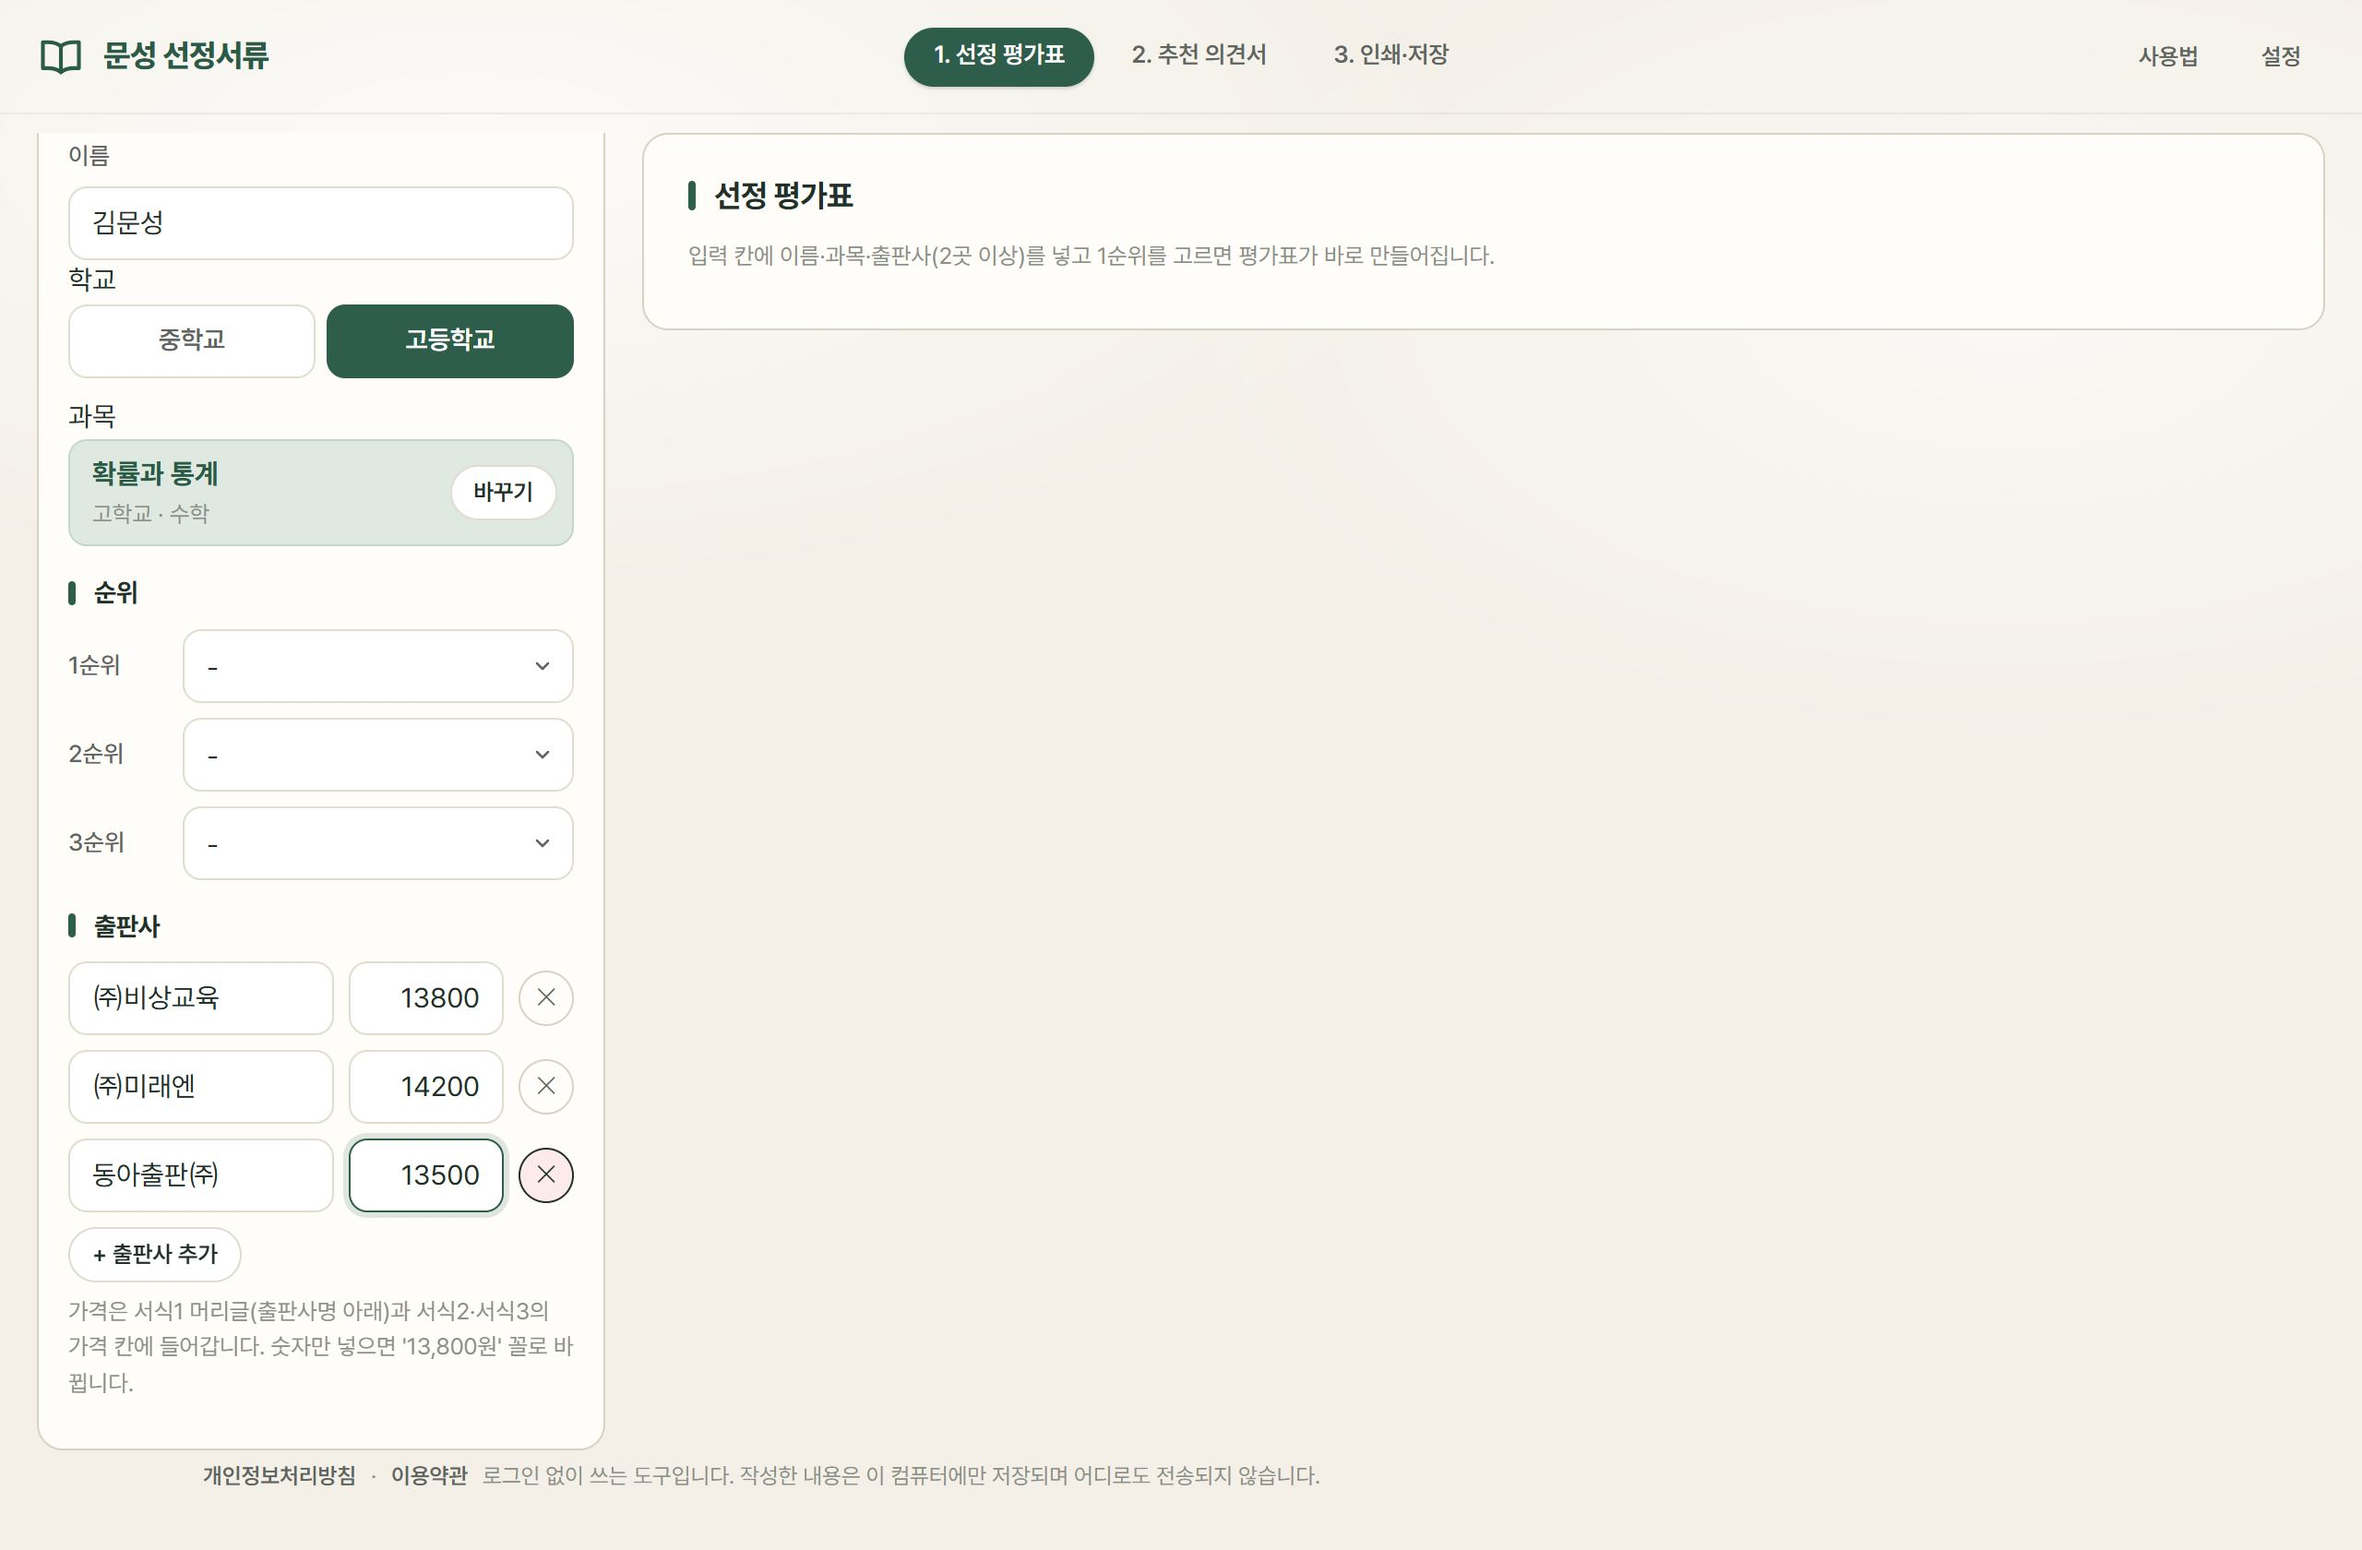
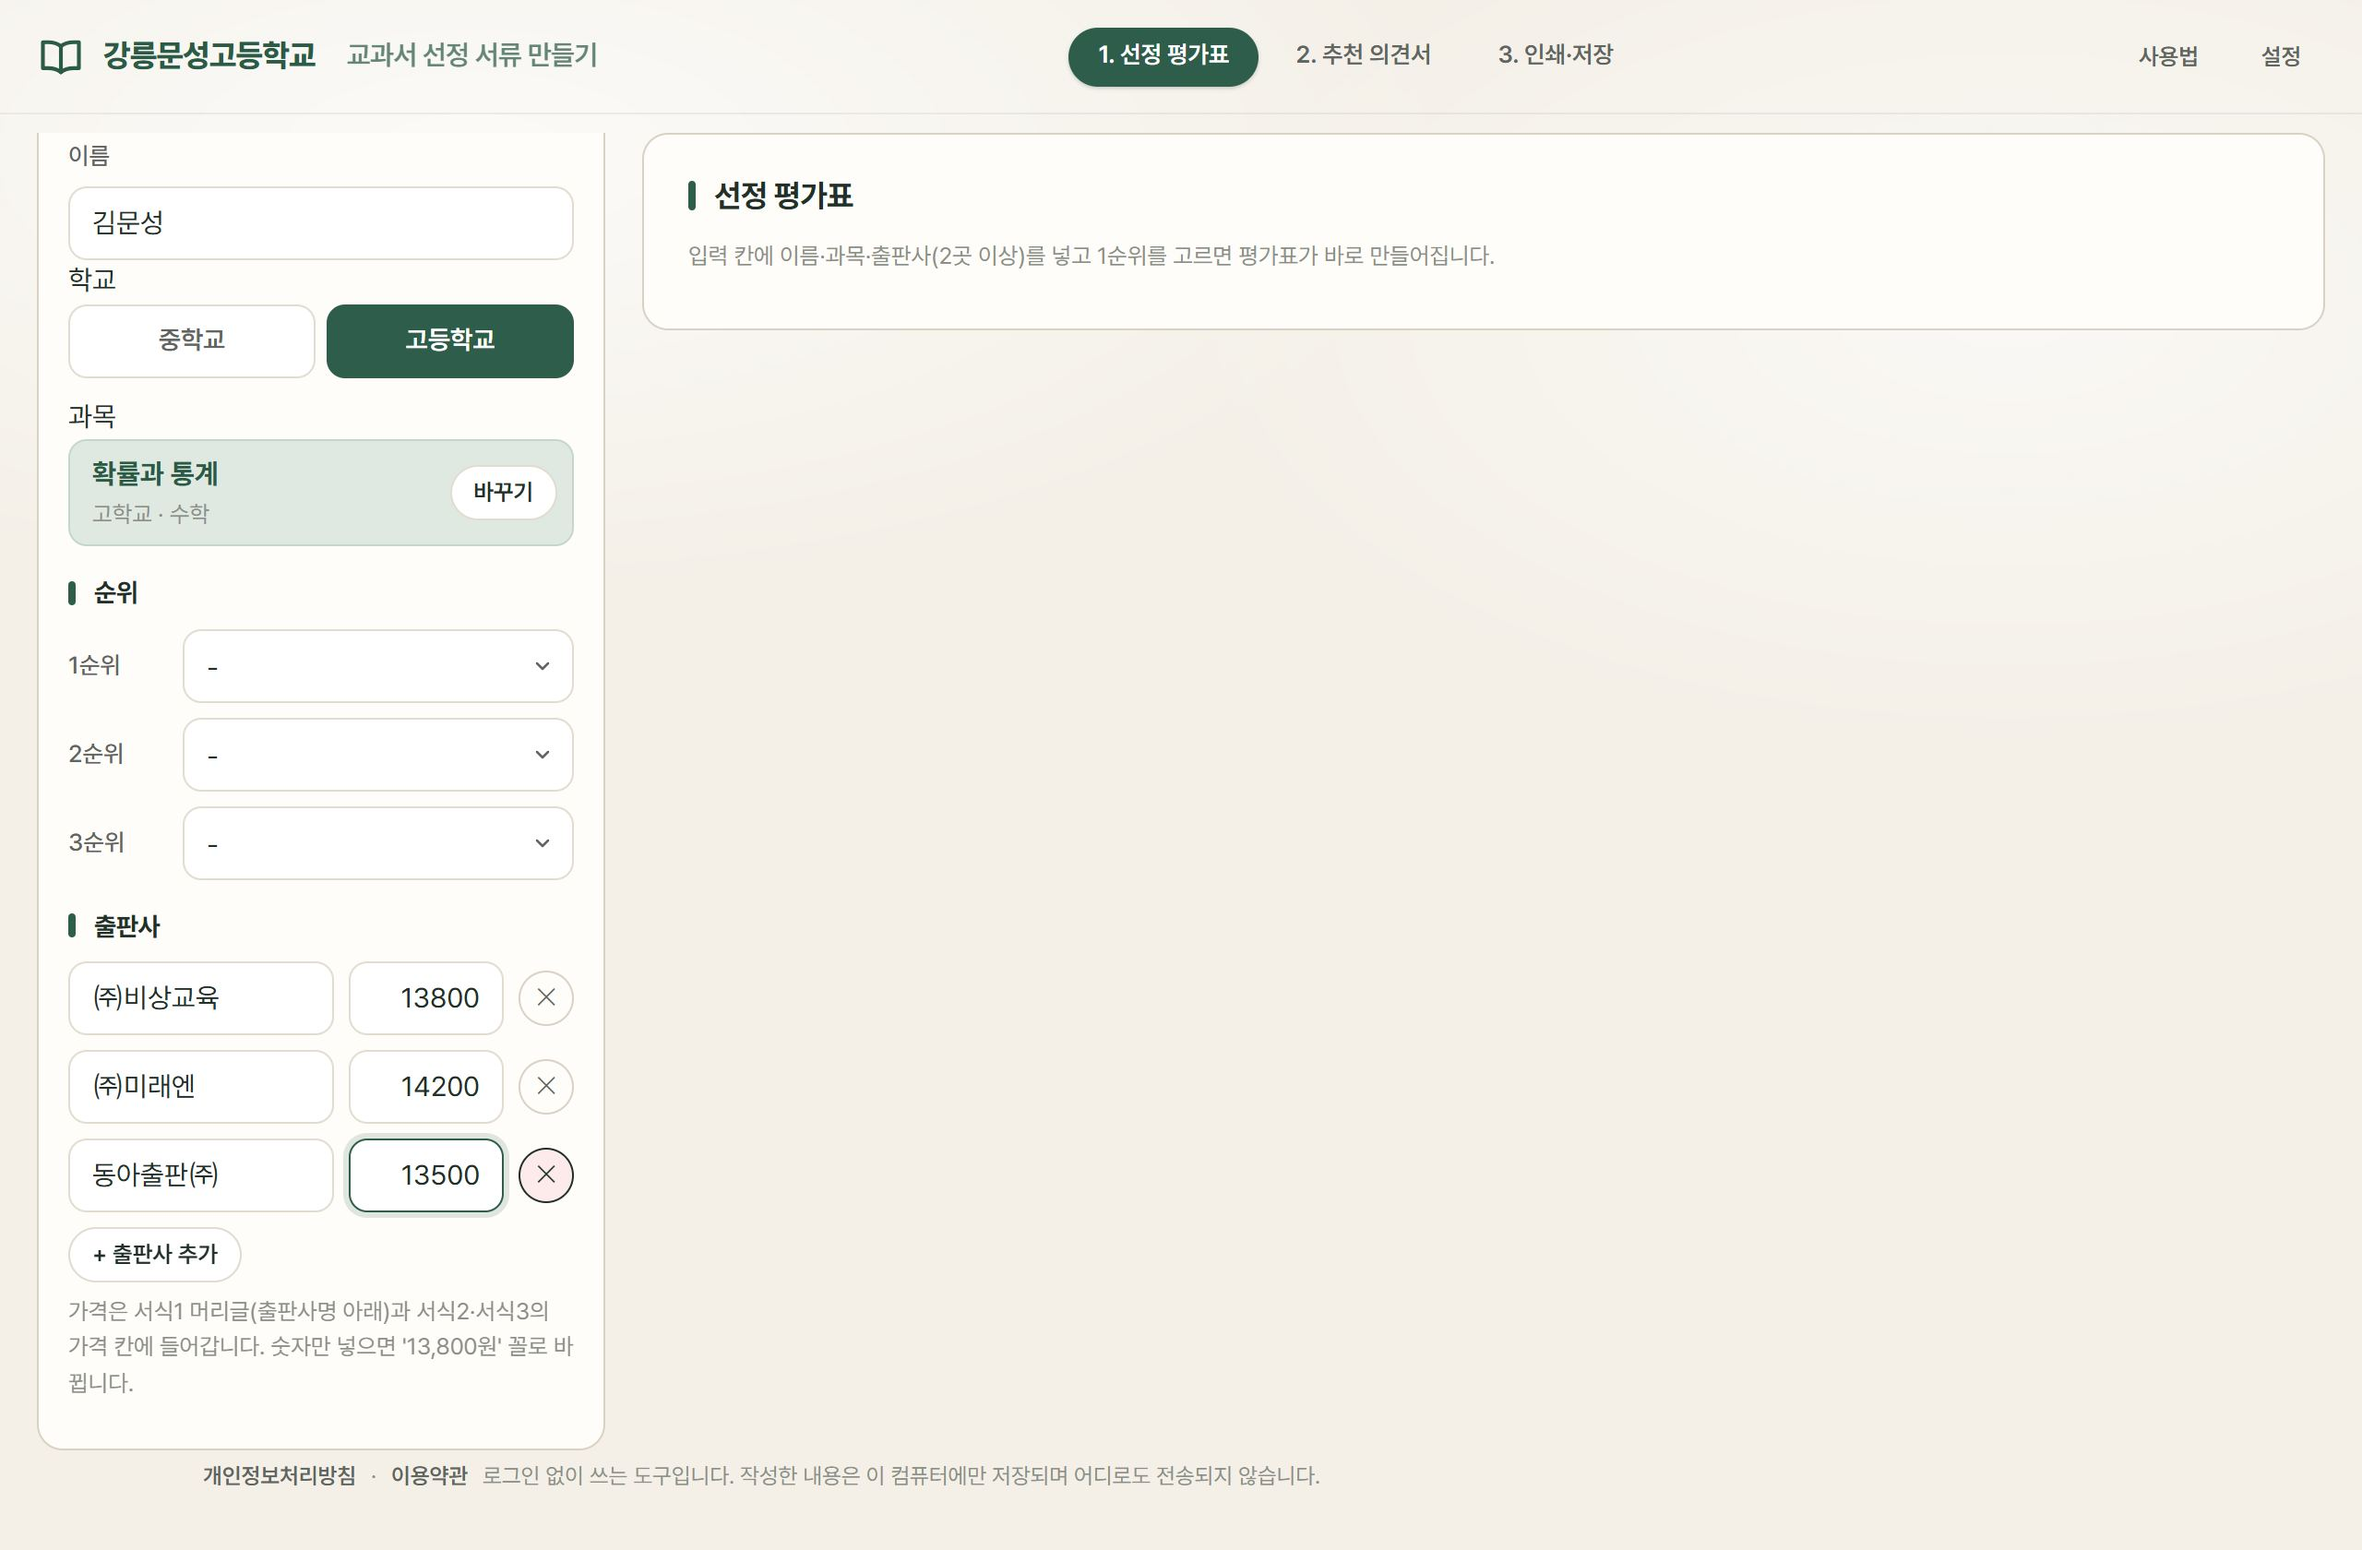
상단 이름을 '강릉문성고등학교 교과서 선정 서류 만들기' 로
'문성 선정서류' 만으로는 어느 학교의 무슨 도구인지 한눈에 오지 않았다.
좁은 화면에서는 뒷말이 접혀 '강릉문성고등학교' 만 남는다 — 전부 한 줄로
두면 휴대전화에서 사용법·설정 단추와 부딪힌다.

뒷말에 쓰는 .suffix 는 12px 회색이라 부제처럼 물러나 보여, 15px 로 올리고
제목 색을 옅게 써서 한 제목으로 읽히게 했다.

머리글이 거의 모든 안내 그림에 나오므로 열다섯 장을 다시 찍었다.

diff --git a/src/styles.css b/src/styles.css
@@ -108,7 +108,7 @@ input[type='checkbox'] { accent-color: var(--primary); }
 }
 .topbar .brand { display: flex; align-items: center; gap: 10px; cursor: pointer; font-size: 17px; font-weight: 800; letter-spacing: -0.02em; color: var(--title); white-space: nowrap; }
 .topbar .brand svg { width: 26px; height: 26px; }
-.topbar .brand .suffix { color: var(--muted); font-size: 12px; font-weight: 500; margin-left: 6px; }
+.topbar .brand .suffix { color: var(--title); opacity: 0.72; font-size: 15px; font-weight: 600; margin-left: 7px; }
 .topbar nav { display: flex; align-items: center; gap: 4px; }
 .topbar nav button { white-space: nowrap; border: none; background: none; height: 36px; padding: 0 12px; border-radius: 999px; font-size: 14px; font-weight: 600; color: var(--text-2); cursor: pointer; }
 .topbar nav button:hover { background: rgba(0, 0, 0, 0.05); color: var(--text); }

diff --git a/src/App.tsx b/src/App.tsx
@@ -21,7 +21,9 @@ function Shell() {
       <header className="topbar no-print">
         <div className="brand" onClick={() => go('')}>
           <BookIcon />
-          <span>문성 선정서류</span>
+          {/* 좁은 화면에서는 뒷말(suffix)이 접혀 '강릉문성고등학교' 만 남는다 */}
+          <span>강릉문성고등학교</span>
+          <span className="suffix">교과서 선정 서류 만들기</span>
         </div>
         <div id="topbar-slot" className="topbar-slot" />
         <div className="meta">
